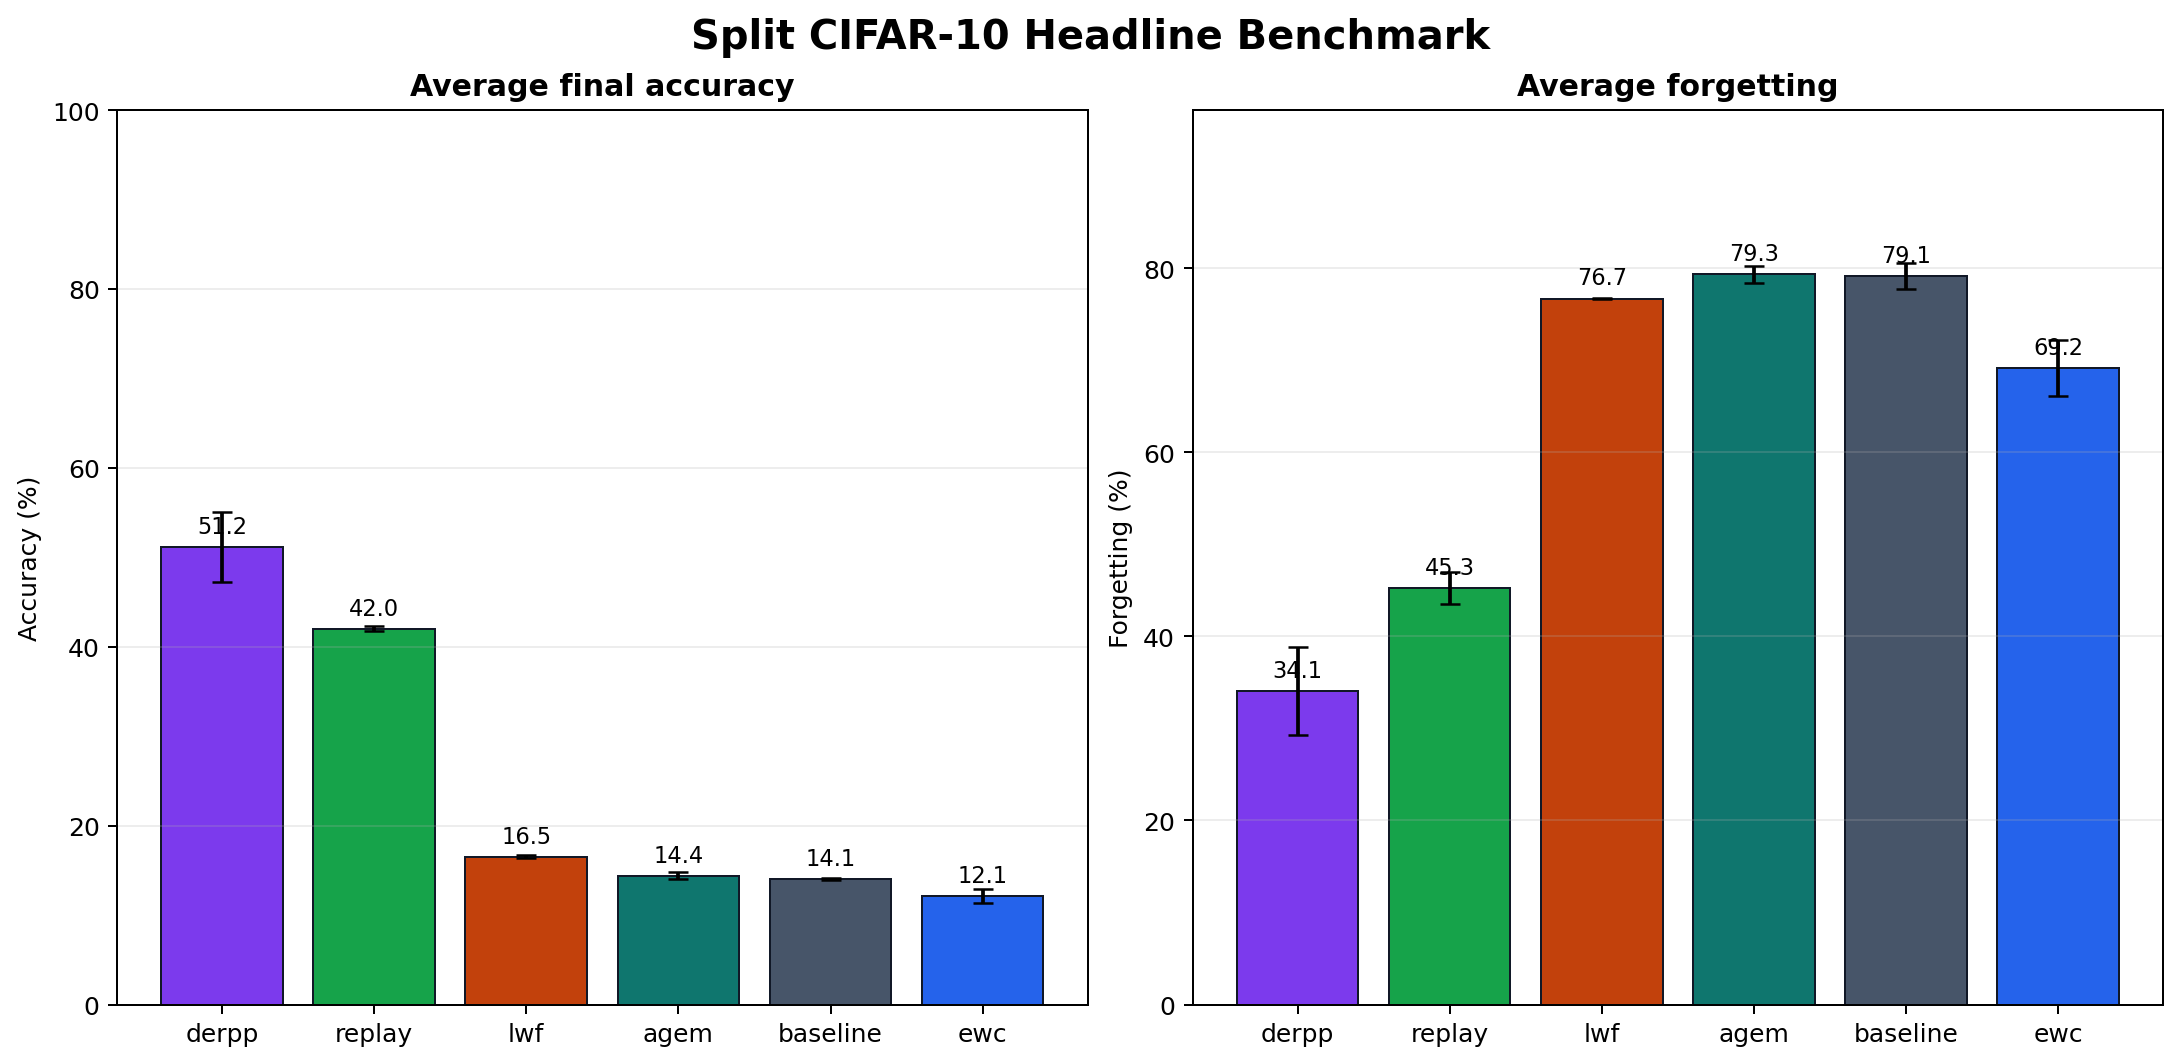
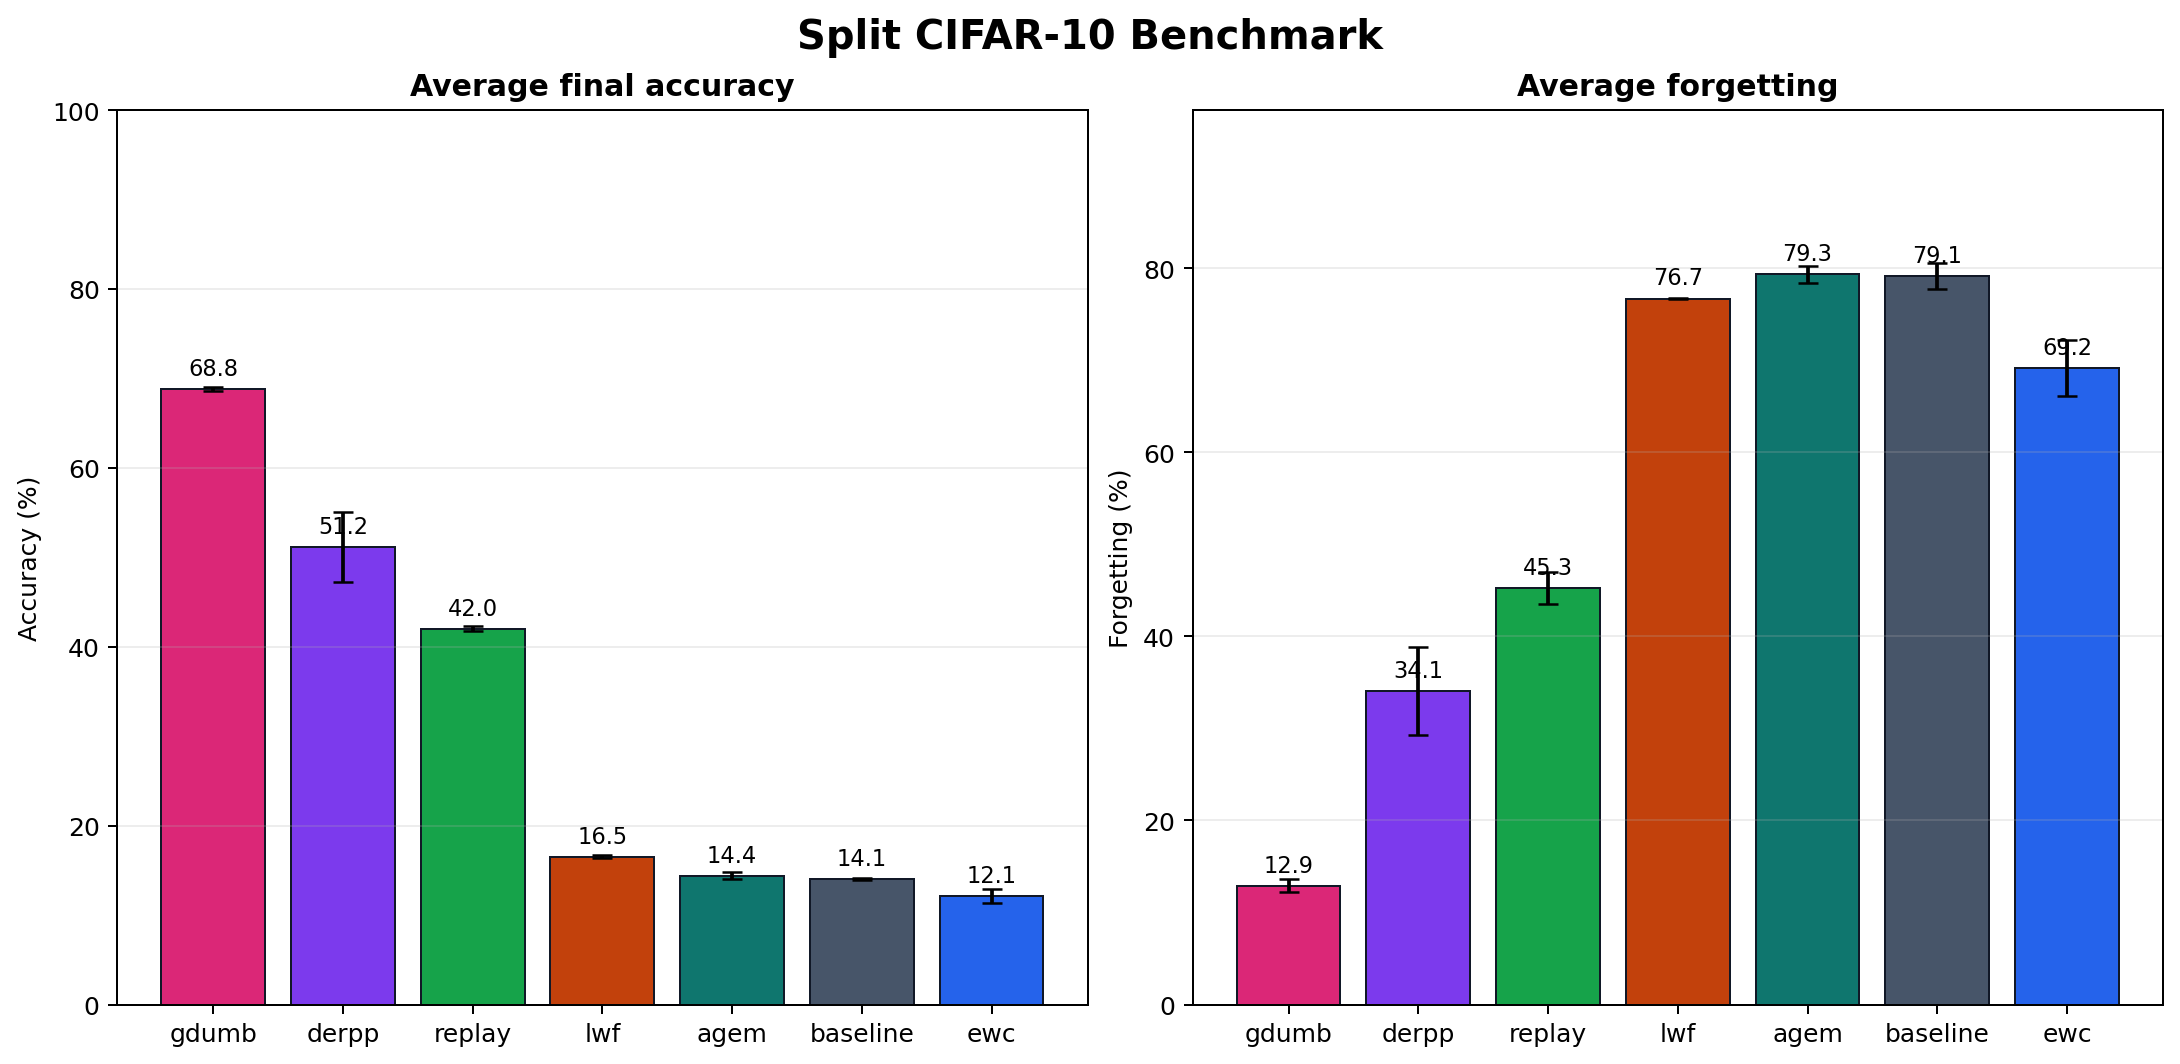
Report high-memory GDumb benchmark

diff --git a/src/cl_bench/reporting.py b/src/cl_bench/reporting.py
@@ -368,16 +368,17 @@ def _bar_chart(
 
 def _plot_retention_curves(plt: Any, records: Sequence[RunRecord], path: Path) -> Path:
     fig, axis = plt.subplots(figsize=(9.5, 5.5), constrained_layout=True)
+    max_steps = max(record.accuracy_matrix.shape[0] for record in records)
     for method, method_records in _records_by_method(records).items():
         curves = []
         for record in method_records:
-            curve = []
+            curve = [np.nan] * max_steps
             for step in range(record.accuracy_matrix.shape[0]):
                 seen = record.accuracy_matrix[step, : step + 1]
-                curve.append(float(np.nanmean(seen)))
+                curve[step] = float(np.nanmean(seen))
             curves.append(curve)
         matrix = np.asarray(curves, dtype=float)
-        x_values = np.arange(1, matrix.shape[1] + 1)
+        x_values = np.arange(1, max_steps + 1)
         mean_curve = np.nanmean(matrix, axis=0)
         std_curve = np.nanstd(matrix, axis=0)
         color = _method_color(method)
@@ -391,7 +392,7 @@ def _plot_retention_curves(plt: Any, records: Sequence[RunRecord], path: Path) -
     axis.set_xlabel("After training task")
     axis.set_ylabel("Mean accuracy on seen tasks (%)")
     axis.set_ylim(0, 100)
-    axis.set_xticks(np.arange(1, max(record.accuracy_matrix.shape[0] for record in records) + 1))
+    axis.set_xticks(np.arange(1, max_steps + 1))
     axis.grid(alpha=0.25)
     axis.legend(frameon=False)
     fig.savefig(path, dpi=180, bbox_inches="tight")

diff --git a/src/cl_bench/cli.py b/src/cl_bench/cli.py
@@ -127,7 +127,10 @@ def add_config_arguments(parser: argparse.ArgumentParser) -> None:
 
 
 def add_runtime_overrides(parser: argparse.ArgumentParser) -> None:
-    parser.add_argument("--model", choices=["linear", "mlp", "small_cnn", "cnn"])
+    parser.add_argument(
+        "--model",
+        choices=["linear", "mlp", "small_cnn", "cnn", "cifar_convnet", "resnet18_cifar"],
+    )
     parser.add_argument("--epochs", type=int)
     parser.add_argument("--seed", type=int)
     parser.add_argument("--device")

diff --git a/README.md b/README.md
@@ -16,7 +16,8 @@ and plots. The primary reported result is a verified Split CIFAR-10 suite.
 ## Project Scope
 
 - Config-driven benchmark runner for single runs and multi-method suites.
-- Implemented baseline fine-tuning, EWC, reservoir replay, LwF, DER++, and A-GEM.
+- Implemented baseline fine-tuning, EWC, reservoir replay, LwF, DER++, A-GEM,
+  ER-ACE, and GDumb.
 - Deterministic synthetic CI benchmark plus real MNIST and CIFAR-10 task streams.
 - Artifact tracking for config snapshots, metadata, JSONL events, CSV matrices,
   checkpoints, MLflow runs, aggregate reports, and plots.
@@ -68,6 +69,18 @@ cl-bench suite \
   --title "Split CIFAR-10 Headline Benchmark"
 ```
 
+Run the high-memory GDumb comparison used in the report:
+
+```bash
+cl-bench suite \
+  --config-name split_cifar10_headline \
+  --methods gdumb \
+  --seeds 13 21 \
+  --tracking both \
+  strategy.replay_buffer_size=10000 \
+  strategy.gdumb_epochs=20
+```
+
 Use Hydra/OmegaConf-style overrides for quick experiments:
 
 ```bash
@@ -100,26 +113,29 @@ Local verification on 2026-05-25 used Python 3.11.15, PyTorch 2.12.0,
 torchvision 0.27.0, NumPy 2.4.6, Hydra 1.3.2, MLflow 3.12.0, Ruff 0.15.14,
 pytest 9.0.3, and Matplotlib 3.10.9.
 
-Command:
+Commands:
 
 ```bash
 cl-bench suite --config-name split_cifar10_headline --methods baseline ewc replay lwf derpp agem --seeds 13 21 --tracking both --report-dir docs/assets/split_cifar10_headline --title "Split CIFAR-10 Headline Benchmark"
+cl-bench suite --config-name split_cifar10_headline --methods gdumb --seeds 13 21 --tracking both strategy.replay_buffer_size=10000 strategy.gdumb_epochs=20
 ```
 
 The headline benchmark uses real CIFAR-10 images, five class-incremental tasks,
 2,500 training examples per task, 1,000 test examples per task, two seeds,
-5 epochs per task, a compact residual CIFAR ConvNet, and a 5,000-example replay
-memory budget where applicable. It is a reproducible benchmark, not a paper
-leaderboard claim.
+5 epochs per task, and a compact residual CIFAR ConvNet. The main suite uses a
+5,000-example memory budget where applicable; the GDumb row is explicitly marked
+as a 10,000-example high-memory comparison. This is a reproducible benchmark, not
+a paper leaderboard claim.
 
-| Method | Average final accuracy | Average forgetting | Mean runtime |
-| --- | ---: | ---: | ---: |
-| DER++ | 51.15% +- 3.95% | 34.06% +- 4.74% | 578.7s |
-| replay | 41.99% +- 0.27% | 45.27% +- 1.73% | 547.4s |
-| LwF | 16.53% +- 0.13% | 76.71% +- 0.09% | 224.3s |
-| A-GEM | 14.37% +- 0.39% | 79.34% +- 0.96% | 516.3s |
-| baseline | 14.06% +- 0.10% | 79.14% +- 1.39% | 181.0s |
-| EWC | 12.12% +- 0.74% | 69.20% +- 3.02% | 223.1s |
+| Method | Memory | Average final accuracy | Average forgetting | Mean runtime |
+| --- | ---: | ---: | ---: | ---: |
+| GDumb | 10000 | 68.78% +- 0.22% | 12.89% +- 0.71% | 2020.4s |
+| DER++ | 5000 | 51.15% +- 3.95% | 34.06% +- 4.74% | 578.7s |
+| replay | 5000 | 41.99% +- 0.27% | 45.27% +- 1.73% | 547.4s |
+| LwF | 5000 | 16.53% +- 0.13% | 76.71% +- 0.09% | 224.3s |
+| A-GEM | 5000 | 14.37% +- 0.39% | 79.34% +- 0.96% | 516.3s |
+| baseline | 5000 | 14.06% +- 0.10% | 79.14% +- 1.39% | 181.0s |
+| EWC | 5000 | 12.12% +- 0.74% | 69.20% +- 3.02% | 223.1s |
 
 Generated report artifacts live in
 [`docs/assets/split_cifar10_headline`](docs/assets/split_cifar10_headline/README.md).
@@ -136,7 +152,7 @@ src/cl_bench/
   models.py          # linear, MLP, small CNN, and CIFAR residual ConvNet factory
   reporting.py       # run aggregation, leaderboard CSV/JSON, and plots
   tracking.py        # JSON/JSONL/CSV artifacts and optional MLflow logging
-  strategies/        # baseline, EWC, replay, LwF, DER++, and A-GEM
+  strategies/        # baseline, EWC, replay, LwF, DER++, A-GEM, ER-ACE, GDumb
 configs/
   smoke.yaml              # fast deterministic CPU benchmark
   split_mnist_quick.yaml  # bounded real MNIST suite for local CPU runs
@@ -182,6 +198,10 @@ ignored by git. Curated README assets under `docs/assets/` are intentionally kep
 - DER++ stores replay logits online and combines current CE, replay CE, and
   logit-matching losses.
 - A-GEM projects conflicting gradients against replay-memory reference gradients.
+- ER-ACE masks the current-task loss so new examples do not directly suppress
+  old classes, while replay examples still use full cross-entropy.
+- GDumb keeps a class-balanced memory and retrains from scratch on stored
+  exemplars after each task.
 - Best validation checkpoints are deep-copied before restoration to avoid mutable
   `state_dict` aliasing bugs.
 - The suite/report layer separates expensive benchmark execution from cheap,

diff --git a/docs/assets/split_cifar10_headline/README.md b/docs/assets/split_cifar10_headline/README.md
@@ -1,19 +1,20 @@
-# Split CIFAR-10 Headline Benchmark
+# Split CIFAR-10 Benchmark
 
 Benchmarks: `split_cifar10_headline`
-Runs: `12`
+Runs: `14`
 Tasks per run: `5`
 
 ## Leaderboard
 
-| Method | Runs | Seeds | Final accuracy | Forgetting | Backward transfer | Mean runtime |
-| --- | ---: | --- | ---: | ---: | ---: | ---: |
-| derpp | 2 | 13,21 | 51.15 +- 3.95% | 34.06 +- 4.74% | -34.06% | 578.7s |
-| replay | 2 | 13,21 | 41.99 +- 0.27% | 45.27 +- 1.73% | -45.27% | 547.4s |
-| lwf | 2 | 13,21 | 16.53 +- 0.13% | 76.71 +- 0.09% | -76.71% | 224.3s |
-| agem | 2 | 13,21 | 14.37 +- 0.39% | 79.34 +- 0.96% | -79.34% | 516.3s |
-| baseline | 2 | 13,21 | 14.06 +- 0.10% | 79.14 +- 1.39% | -79.14% | 181.0s |
-| ewc | 2 | 13,21 | 12.12 +- 0.74% | 69.20 +- 3.02% | -69.20% | 223.1s |
+| Method | Runs | Seeds | Memory | Final accuracy | Forgetting | Backward transfer | Mean runtime |
+| --- | ---: | --- | ---: | ---: | ---: | ---: | ---: |
+| gdumb | 2 | 13,21 | 10000 | 68.78 +- 0.22% | 12.89 +- 0.71% | -11.93% | 2020.4s |
+| derpp | 2 | 13,21 | 5000 | 51.15 +- 3.95% | 34.06 +- 4.74% | -34.06% | 578.7s |
+| replay | 2 | 13,21 | 5000 | 41.99 +- 0.27% | 45.27 +- 1.73% | -45.27% | 547.4s |
+| lwf | 2 | 13,21 | 5000 | 16.53 +- 0.13% | 76.71 +- 0.09% | -76.71% | 224.3s |
+| agem | 2 | 13,21 | 5000 | 14.37 +- 0.39% | 79.34 +- 0.96% | -79.34% | 516.3s |
+| baseline | 2 | 13,21 | 5000 | 14.06 +- 0.10% | 79.14 +- 1.39% | -79.14% | 181.0s |
+| ewc | 2 | 13,21 | 5000 | 12.12 +- 0.74% | 69.20 +- 3.02% | -69.20% | 223.1s |
 
 ## Plots
 
@@ -35,6 +36,8 @@ Tasks per run: `5`
 | derpp | 21 | `runs/split_cifar10_headline_derpp_20260525T140155Z` |
 | ewc | 13 | `runs/split_cifar10_headline_ewc_20260525T130553Z` |
 | ewc | 21 | `runs/split_cifar10_headline_ewc_20260525T134413Z` |
+| gdumb | 13 | `runs/split_cifar10_headline_gdumb_20260525T160424Z` |
+| gdumb | 21 | `runs/split_cifar10_headline_gdumb_20260525T163726Z` |
 | lwf | 13 | `runs/split_cifar10_headline_lwf_20260525T131842Z` |
 | lwf | 21 | `runs/split_cifar10_headline_lwf_20260525T135744Z` |
 | replay | 13 | `runs/split_cifar10_headline_replay_20260525T130954Z` |

diff --git a/docs/BENCHMARK_CARD.md b/docs/BENCHMARK_CARD.md
@@ -14,6 +14,8 @@ tasks after every training step.
 - Learning without Forgetting with temperature-scaled distillation.
 - DER++ with online replay-logit storage.
 - A-GEM with replay-memory gradient projection.
+- ER-ACE with asymmetric current-task cross-entropy plus replay.
+- GDumb with class-balanced memory and from-scratch memory training.
 
 ## Datasets
 
@@ -43,3 +45,5 @@ into a leaderboard plus report plots.
 The Split CIFAR-10 reported result is designed for local reproducibility and
 engineering verification. It is not a leaderboard claim. Serious research
 comparisons should increase seeds, epochs, memory budgets, and dataset coverage.
+The GDumb comparison uses a larger memory budget than the main 5,000-example
+suite and should be read as a high-memory result rather than a same-budget claim.